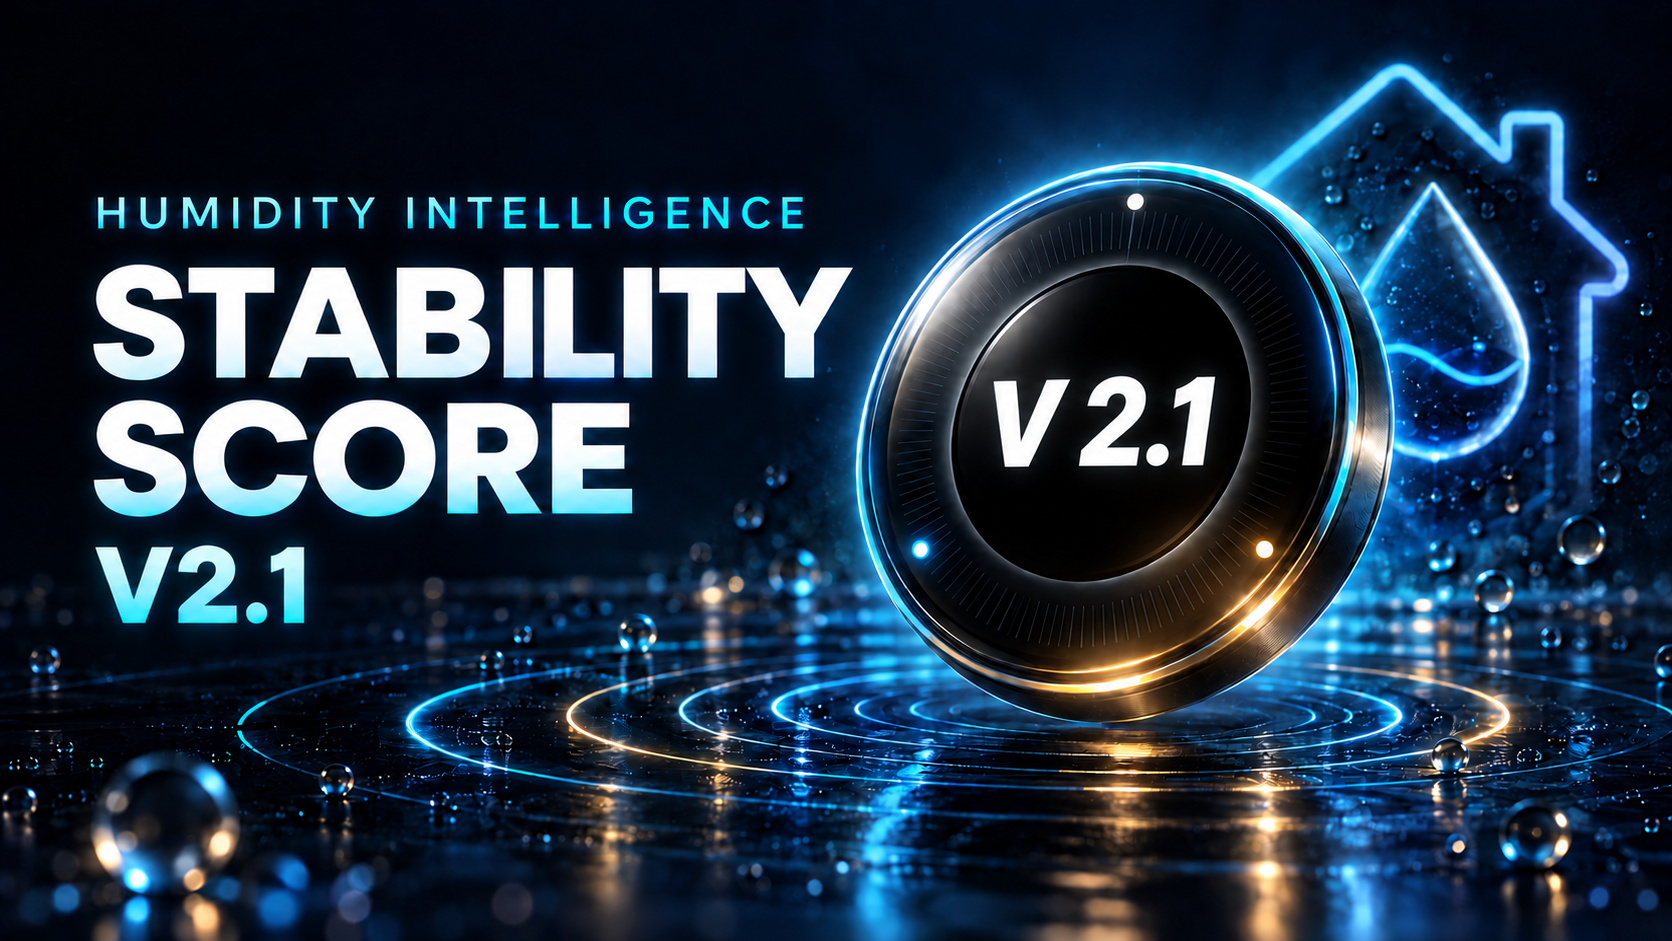
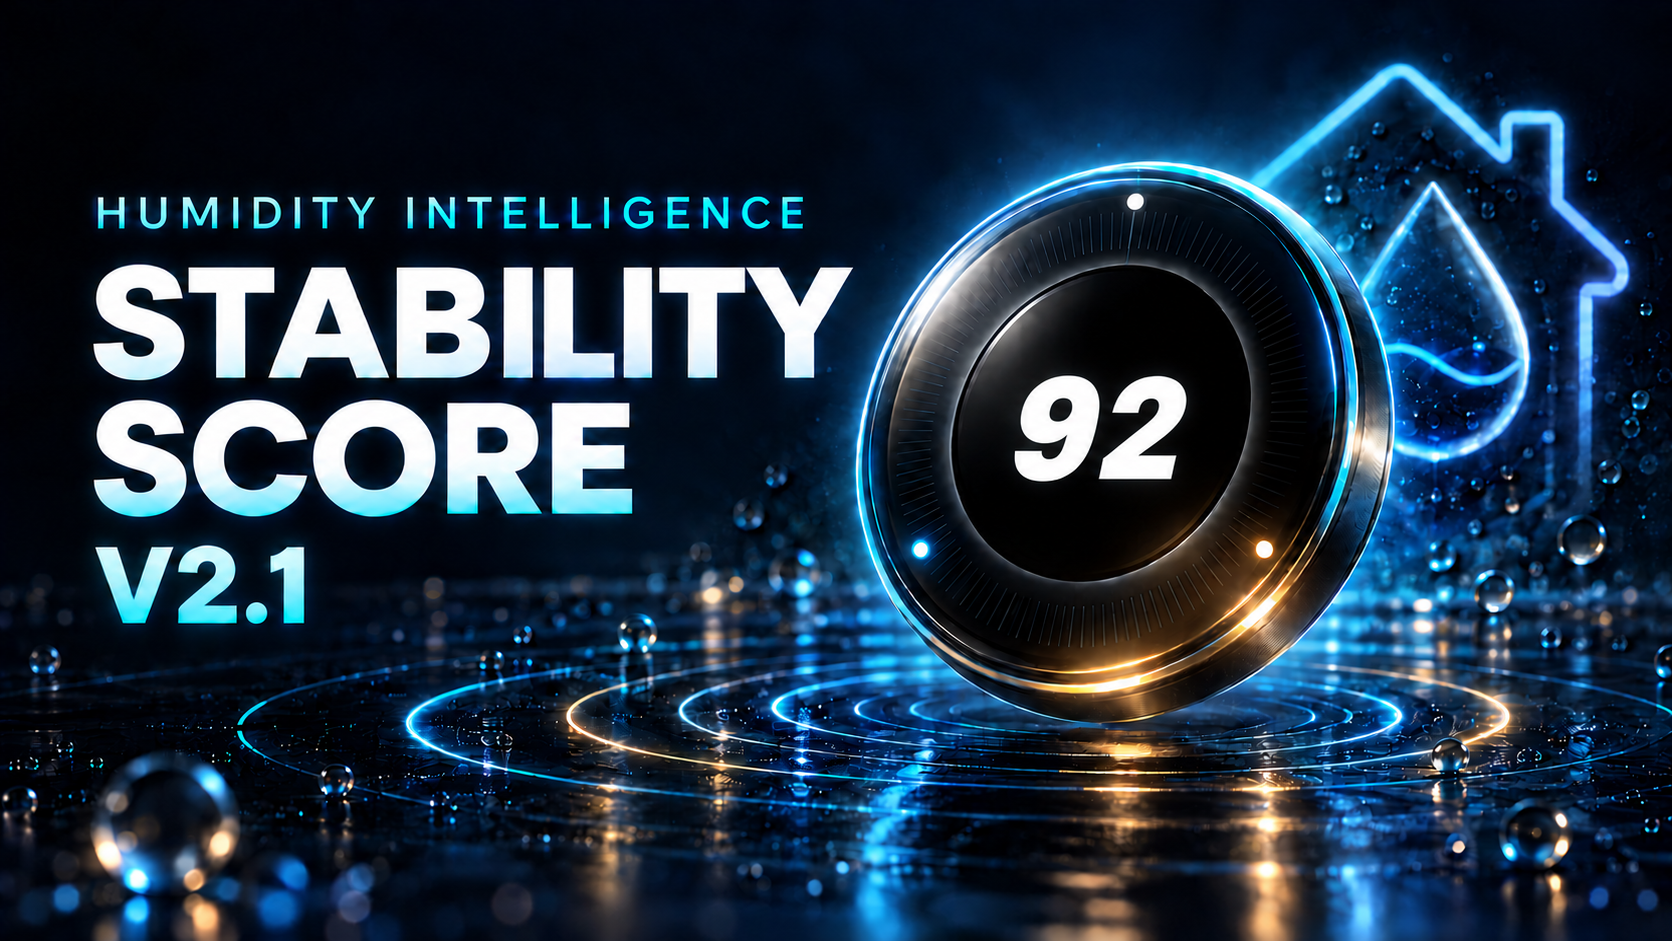
Restore the illustrative Stability score in the v2.1 header
Replace the central version label with the requested score of 92 while retaining V2.1 branding and the clockwise LED geometry. Align the website alt text and artwork provenance with the illustration.

Validation: 15 Pages/banner tests and 59 subtests passed; static Pages build and 32 local references passed; tracked secret scan passed. Bella, Aetherwing and Aetherbite reviewed the copy and artwork. No integration, generated-card, entity, migration or restart impact.

diff --git a/site/index.html b/site/index.html
@@ -87,7 +87,7 @@
           </div>
           <figure class="release-art">
             <div class="art-stage"><a href="assets/release_banner/v2.1_release.png" aria-label="View the full V2.1 Stability Score release artwork">
-              <img src="assets/release_banner/v2.1_release.png" width="1672" height="941" fetchpriority="high" alt="Humidity Intelligence V2.1 Stability Score release artwork: a dimensional black-glass dial marked V 2.1, cyan light and a gold accent.">
+              <img src="assets/release_banner/v2.1_release.png" width="1672" height="941" fetchpriority="high" alt="Humidity Intelligence V2.1 Stability Score release artwork: a dimensional black-glass dial showing an illustrative score of 92, cyan light and a gold accent.">
             </a>
               <svg class="led-layer" viewBox="0 0 1672 941" aria-hidden="true" focusable="false">
                 <defs><radialGradient id="led-socket"><stop offset="0" stop-color="#07111b"/><stop offset=".6" stop-color="#101c29"/><stop offset="1" stop-color="#183445" stop-opacity="0"/></radialGradient></defs>

diff --git a/assets/site/README.md b/assets/site/README.md
@@ -5,11 +5,13 @@
 [`v2.1_release.png`](../release_banner/v2.1_release.png) is the selected release artwork, created
 with the built-in OpenAI image-generation tool. It develops the project's
 v2.0.12 release-art style and the Stability badge into a dimensional illustration.
-The central **V 2.1** is the product version, not a measured Stability Score.
+The central **92** is an illustrative Stability Score; the separate **V2.1** label
+identifies the release. The artwork does not display a live measurement.
 The three rim LEDs are decorative. Website CSS lights them clockwise every three
 seconds; a pause control and reduced-motion setting show the still image.
 
-The maintainer selected this artwork on 10 October 2026. It is not
+The maintainer selected this artwork on 10 October 2026 and requested the central
+score of **92** on 11 October 2026. It is not
 an installed dashboard capture, runtime evidence, publication claim or replacement
 for the genuine `assets/ui/v2.1/stability-score-92.png` capture. Its embedded
 content-credential metadata is retained; cryptographic validation is not claimed.
